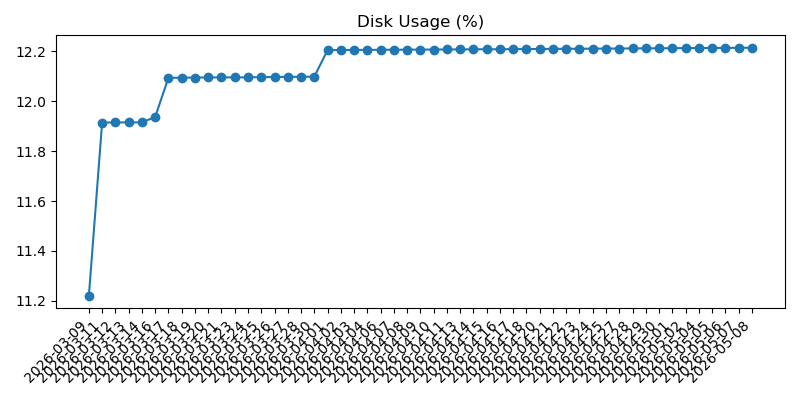
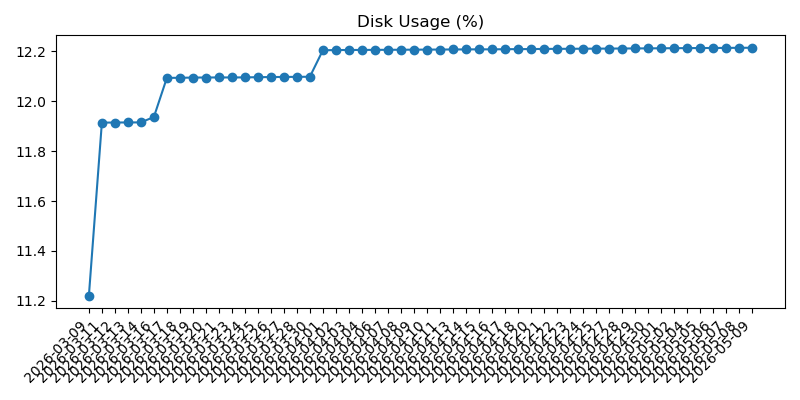
Add daily health and weather snapshot

Changed region(s): [[0.0938, 0.78, 0.9375, 0.96], [0.1875, 0.09, 0.9062, 0.3], [0.125, 0.3, 0.1875, 0.33]]

diff --git a/2026-05.md b/2026-05.md
@@ -238,3 +238,37 @@
 - Overall: Warning
 - Warning: Power issue detected: Undervoltage has occurred; Throttling has occurred
 
+## 2026-05-09 11:09:12
+
+### Machine
+- Uptime: up 2 weeks, 4 days, 12 hours, 54 minutes
+- CPU load (1m, 5m, 15m): 0.00, 0.00, 0.00
+- RAM used: 170 MB / 921 MB (18.4%)
+- Disk used (/): 3.5 GB / 28.8 GB (12.2%)
+- Free disk space (/): 24.1 GB
+- CPU temp: 39.7°C
+- Voltage / throttling: Undervoltage has occurred; Throttling has occurred
+
+### Reachability
+- Internet check (1.1.1.1): Reachable (3.9 ms)
+
+### Weather
+- Madrid:
+  - Condition: Cubierto con lluvia
+  - Max temp: 18°C
+  - Min temp: 11°C
+  - Feels like: 14°C
+  - Chance of rain: 100%
+  - Warnings: None reported
+- Barcelona:
+  - Condition: Cubierto con lluvia
+  - Max temp: 21°C
+  - Min temp: 17°C
+  - Feels like: 18°C
+  - Chance of rain: 100%
+  - Warnings: None reported
+
+### Health
+- Overall: Warning
+- Warning: Power issue detected: Undervoltage has occurred; Throttling has occurred
+
